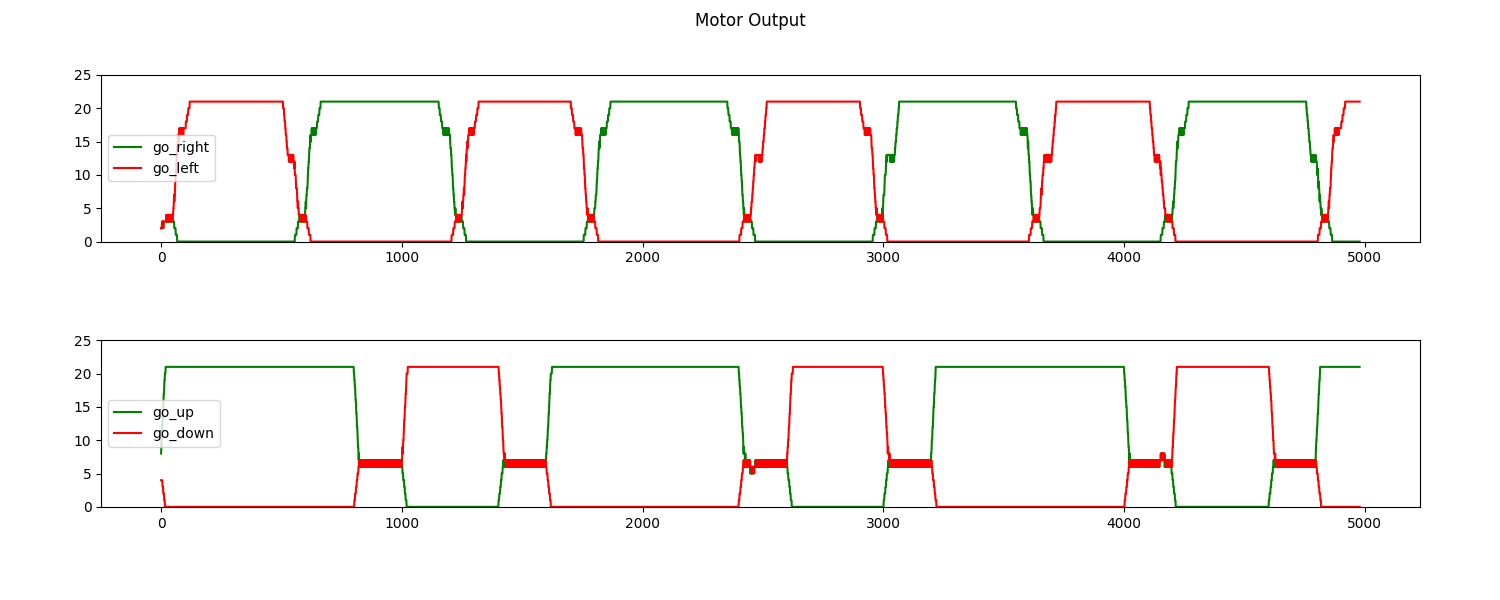
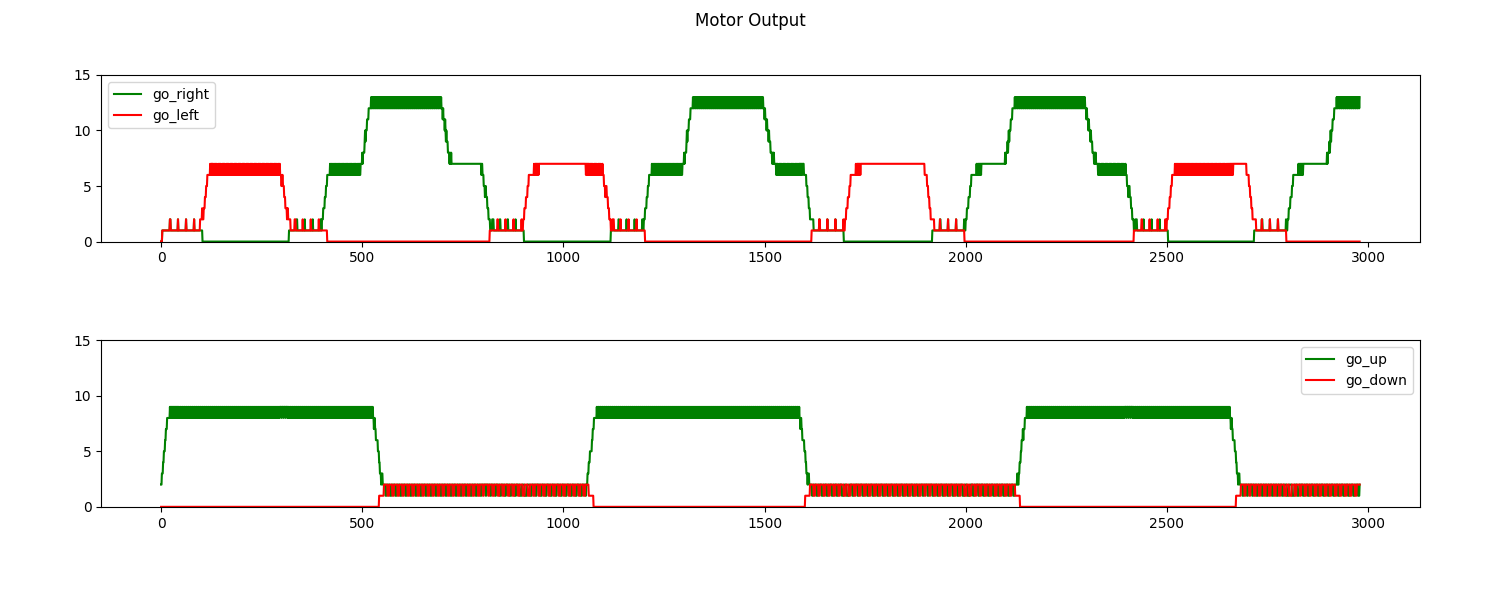
CL no spif with args

diff --git a/miscelaneous/stimulator.py b/miscelaneous/stimulator.py
@@ -3,7 +3,10 @@ import os
 import time
 import numpy as np
 import math
-# import cv2
+try:
+    import cv2
+except:
+    pass
 
 
 
@@ -103,8 +106,6 @@ def produce_data(l, w, r, vx, vy, duration):
     cx = int(2*l/4)
     cy = int(2*w/4)
 
-    data_file_title = "ball_{:d}x{:d}_r{:d}_{:d}s.npy".format(l, w, r, duration)
-
 
     mat = np.zeros((w, l, duration*1000))
     coor = np.zeros((2,duration*1000))
@@ -140,10 +141,12 @@ def produce_data(l, w, r, vx, vy, duration):
             bball.update_c()
             # print("\r{:.1f} %".format(np.round(t/(duration*1000),3)*100), end="")
 
-            # im_final = cv2.resize(mat[:,:,t]*255,(640,480), interpolation = cv2.INTER_NEAREST)
-            # cv2.imshow("Pixel Space", im_final)
-            # # cv2.imshow("Pixel Space", mat[:,:,t]*255)
-            # cv2.waitKey(1) 
+            try:
+                im_final = cv2.resize(mat[:,:,t]*255,(640,480), interpolation = cv2.INTER_NEAREST)
+                cv2.imshow("Pixel Space", im_final)
+                cv2.waitKey(1) 
+            except:
+                pass
         
         coor[0,t] = bball.cx
         coor[1,t] = bball.cy
@@ -153,8 +156,6 @@ def produce_data(l, w, r, vx, vy, duration):
         t += 1
     
     
-    
-    # np.save(data_file_title, mat)
     
     return mat, coor
 

diff --git a/experiments/closed_loop/closed_loop_no_spif.py b/experiments/closed_loop/closed_loop_no_spif.py
@@ -6,7 +6,6 @@ import matplotlib.pyplot as plt
 import time
 import numpy as np
 import math
-# import cv2
 import pdb
 
 
@@ -21,7 +20,7 @@ from stimulator import produce_data
 
 def create_stimuli(duration, l_px):
 
-    w_px = 8+0*int(l_px*3/4)
+    w_px = round(l_px*3/4)
     vx =  l_px/80
     vy = -w_px/160
     r_ball = min(8, int(l_px*7/637+610/637))
@@ -50,7 +49,7 @@ def run_spinnaker_sim(mat, coor, l_px, w_px, duration):
                 }
 
     w = 1.0
-    w_fovea = 50
+    w_fovea = 10
 
 
 
